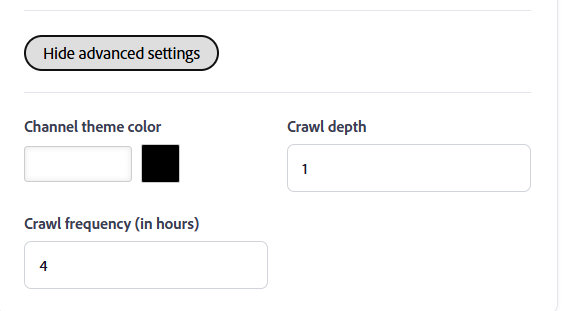
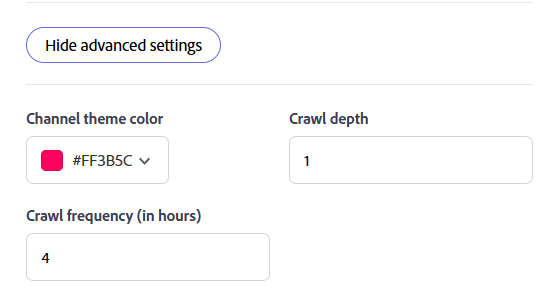
Nudge update

diff --git a/help/migrated/administrators/feature-summary/create-channels.md b/help/migrated/administrators/feature-summary/create-channels.md
@@ -84,7 +84,7 @@ Create a channel to define the content source that Adobe Learning Manager scans 
 
 1. (Optional) Select **Show advanced settings**, and then configure the following options as required:
 
-   1. **Channel theme color**: Select a color to customize the visual appearance of the channel.
+   1. **Channel theme color**: Select a color from the drop-down list to customize the visual appearance of the channel.
 
    1. **Crawl depth**: Enter the crawl depth for linked pages to scan for video content. It supports a maximum crawl depth of **2**.
 
